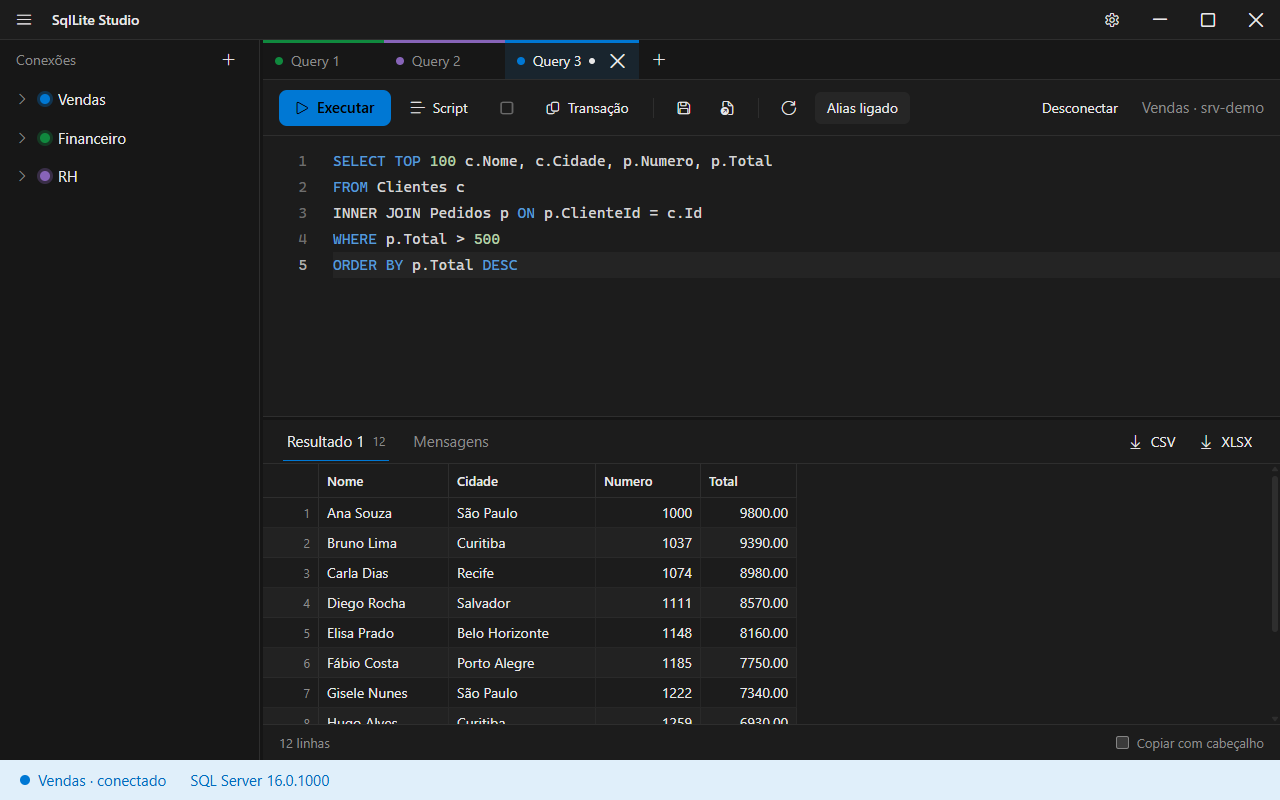
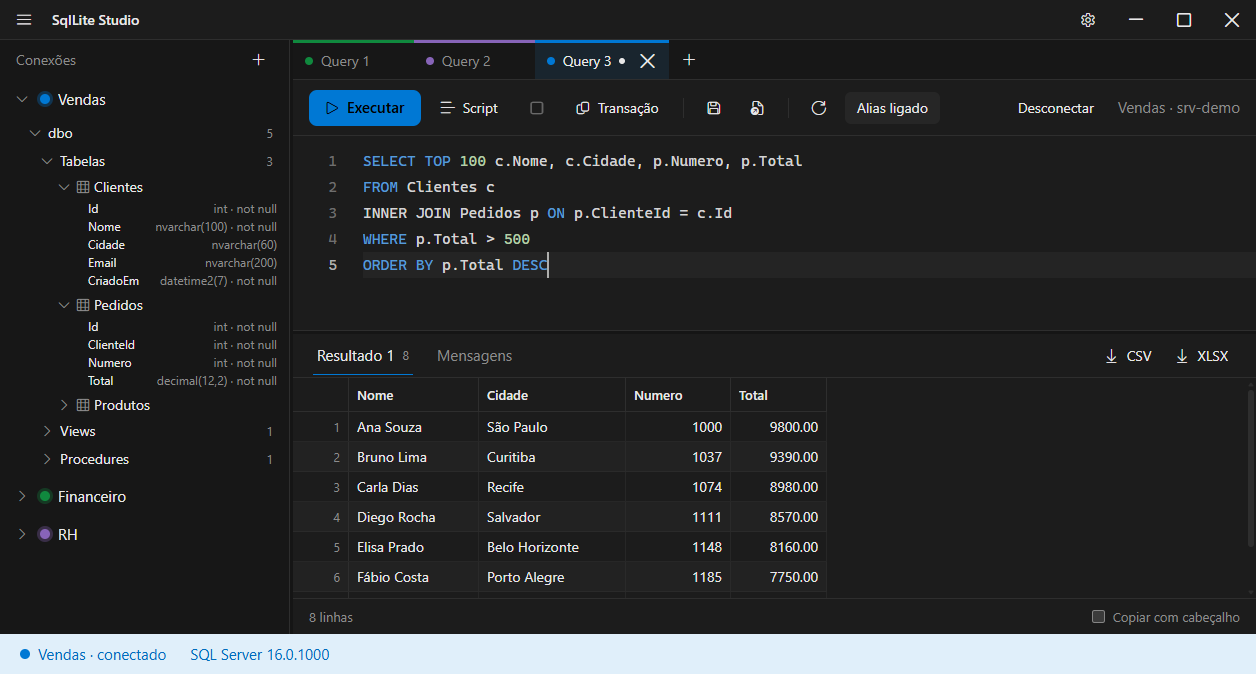
Mostra as colunas de cada tabela, view e função na árvore de objetos

diff --git a/src/SqlDesk.Web/src/components/ObjectTree.tsx b/src/SqlDesk.Web/src/components/ObjectTree.tsx
@@ -64,18 +64,50 @@ export function ObjectTree({ index, loading, error, onOpen }: Props) {
                       </button>
                       {open.has(gKey) && (
                         <ul className="pl-5">
-                          {items.slice(0, limit).map((o) => (
-                            <li
-                              key={o.name}
-                              role="treeitem"
-                              title={o.type === 'procedure' ? 'Duplo clique: EXEC' : 'Duplo clique: SELECT TOP 100 em uma nova aba'}
-                              className="flex cursor-pointer items-center gap-2 truncate rounded px-2 py-0.5 text-sm hover:bg-hover"
-                              onDoubleClick={() => onOpen(o)}
-                            >
-                              <span className="icon text-xs text-muted">{g.icon}</span>
-                              <span className="truncate">{o.name}</span>
-                            </li>
-                          ))}
+                          {items.slice(0, limit).map((o) => {
+                            const oKey = `${gKey}:o:${o.name}`
+                            const hasColumns = o.type !== 'procedure'
+                            const expanded = open.has(oKey)
+                            return (
+                              <li key={o.name} role="treeitem" aria-expanded={hasColumns ? expanded : undefined}>
+                                <div
+                                  title={o.type === 'procedure' ? 'Duplo clique: EXEC' : 'Duplo clique: SELECT TOP 100 em uma nova aba'}
+                                  className="flex cursor-pointer items-center gap-1 rounded px-1 py-0.5 text-sm hover:bg-hover"
+                                  onDoubleClick={() => onOpen(o)}
+                                >
+                                  {hasColumns ? (
+                                    <button
+                                      className="icon flex h-4 w-4 shrink-0 items-center justify-center rounded text-[9px] text-muted hover:bg-selected"
+                                      aria-label={`${expanded ? 'Recolher' : 'Mostrar'} as colunas de ${o.name}`}
+                                      onClick={() => toggle(oKey)}
+                                      onDoubleClick={(e) => e.stopPropagation()}
+                                    >
+                                      {expanded ? '\uE70D' : '\uE76C'}
+                                    </button>
+                                  ) : (
+                                    <span className="w-4 shrink-0" />
+                                  )}
+                                  <span className="icon text-xs text-muted">{g.icon}</span>
+                                  <span className="truncate">{o.name}</span>
+                                </div>
+                                {expanded && (
+                                  <ul role="group" aria-label={`Colunas de ${o.name}`} className="pb-1 pl-8">
+                                    {!index.columnsLoaded ? (
+                                      <li className="px-1 text-xs text-muted">Carregando colunas…</li>
+                                    ) : (
+                                      index.columnsOf(o).map((c) => (
+                                        <li key={c.name} role="treeitem" className="flex items-baseline gap-2 px-1 py-px text-xs" title={`${c.name} ${c.type}${c.nullable ? ' (aceita NULL)' : ' NOT NULL'}`}>
+                                          <span className="truncate">{c.name}</span>
+                                          <span className="ml-auto shrink-0 text-muted">{c.type}{c.nullable ? '' : ' · not null'}</span>
+                                        </li>
+                                      ))
+                                    )}
+                                    {index.columnsLoaded && index.columnsOf(o).length === 0 && <li className="px-1 text-xs text-muted">Sem colunas visíveis.</li>}
+                                  </ul>
+                                )}
+                              </li>
+                            )
+                          })}
                           {items.length > limit && (
                             <li>
                               <button className="px-2 py-0.5 text-xs text-muted underline" onClick={() => setShown((s) => ({ ...s, [gKey]: limit + PAGE }))}>

diff --git a/README.md b/README.md
@@ -14,7 +14,7 @@ Cliente desktop leve para consultar bancos **SQL Server**, só para Windows. Int
 - **Travas de segurança:** `UPDATE` e `DELETE` sem `WHERE`, `TRUNCATE` e `DROP` exigem dupla confirmação; o comando roda dentro de uma transação, mostra o antes e o depois, e só então você escolhe Commit ou Rollback.
 - **Transações:** recomendação de `TRANSACTION` para comandos de escrita, indicador de transação aberta nas abas e decisão ao fechar a aba ou o app.
 - **Exportação** em CSV e XLSX, em streaming, respeitando a ordenação atual; resultados grandes podem ser reexecutados e exportados por inteiro.
-- **Árvore de objetos** com schemas, tabelas, views e procedures.
+- **Árvore de objetos** com schemas, tabelas, views e procedures; cada tabela e view expande para mostrar os **campos**, com o tipo e se aceitam NULL. Duplo clique abre um `SELECT TOP 100` da tabela.
 
 ## Como executar
 
